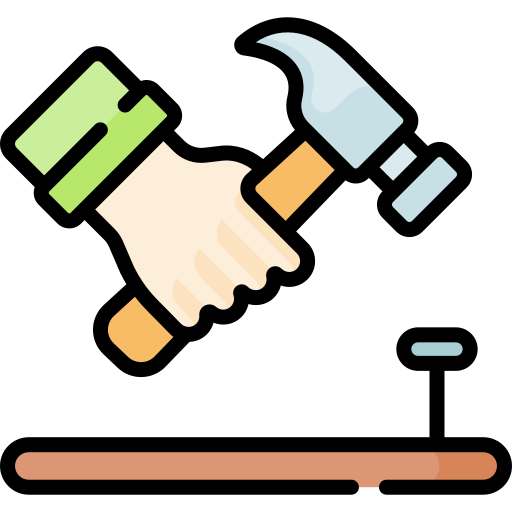
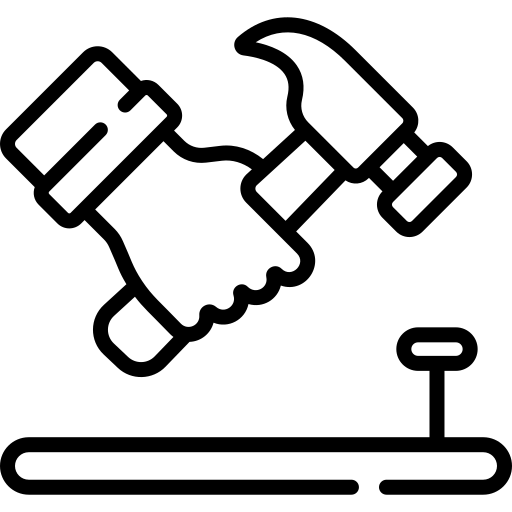
added images and updated appbar text

Changed region(s): [[0.0312, 0.0625, 0.9062, 0.7188], [0.0312, 0.875, 0.9688, 0.9688], [0.7812, 0.6562, 0.9062, 0.7188]]

diff --git a/lib/screens/home_screen.dart b/lib/screens/home_screen.dart
@@ -1,7 +1,6 @@
 // ignore_for_file: prefer_const_literals_to_create_immutables, prefer_const_constructors, unused_field, prefer_final_fields
 
 import 'package:flutter/material.dart';
-import 'package:profile_app/screens/services_screen.dart';
 
 class HomeScreen extends StatefulWidget {
   const HomeScreen({super.key});
@@ -32,7 +31,7 @@ class _HomeScreenState extends State<HomeScreen> {
                           bottomLeft: Radius.circular(15.0),
                           bottomRight: Radius.circular(15.0)),
                       image: const DecorationImage(
-                        image: AssetImage('assets/pic2.jpg'),
+                        image: AssetImage('assets/mountain.jpg'),
                         fit: BoxFit.cover,
                       ),
                     ),

diff --git a/lib/main.dart b/lib/main.dart
@@ -2,7 +2,6 @@
 
 import 'package:flutter/material.dart';
 import 'package:profile_app/bottom_nav_bar.dart';
-import 'package:profile_app/screens/home_screen.dart';
 
 void main() {
   runApp(MaterialApp(
@@ -22,11 +21,15 @@ void main() {
                 ),
               ),
               Text(
-                'SRIYOG | Biratnagar',
+                'SRIYOG|',
                 style: TextStyle(
                   fontWeight: FontWeight.bold,
                 ),
               ),
+              Text(
+                'Biratnagar',
+                style: TextStyle(fontSize: 16),
+              )
             ],
           ),
           actions: [

diff --git a/lib/screens/contact_screen.dart b/lib/screens/contact_screen.dart
@@ -22,7 +22,7 @@ class ContactScreen extends StatelessWidget {
                   bottomRight: Radius.circular(15.0),
                 ),
                 image: DecorationImage(
-                  image: AssetImage('assets/pic2.jpg'),
+                  image: AssetImage('assets/Biratnagar.png'),
                   fit: BoxFit.cover,
                 ),
               ),
